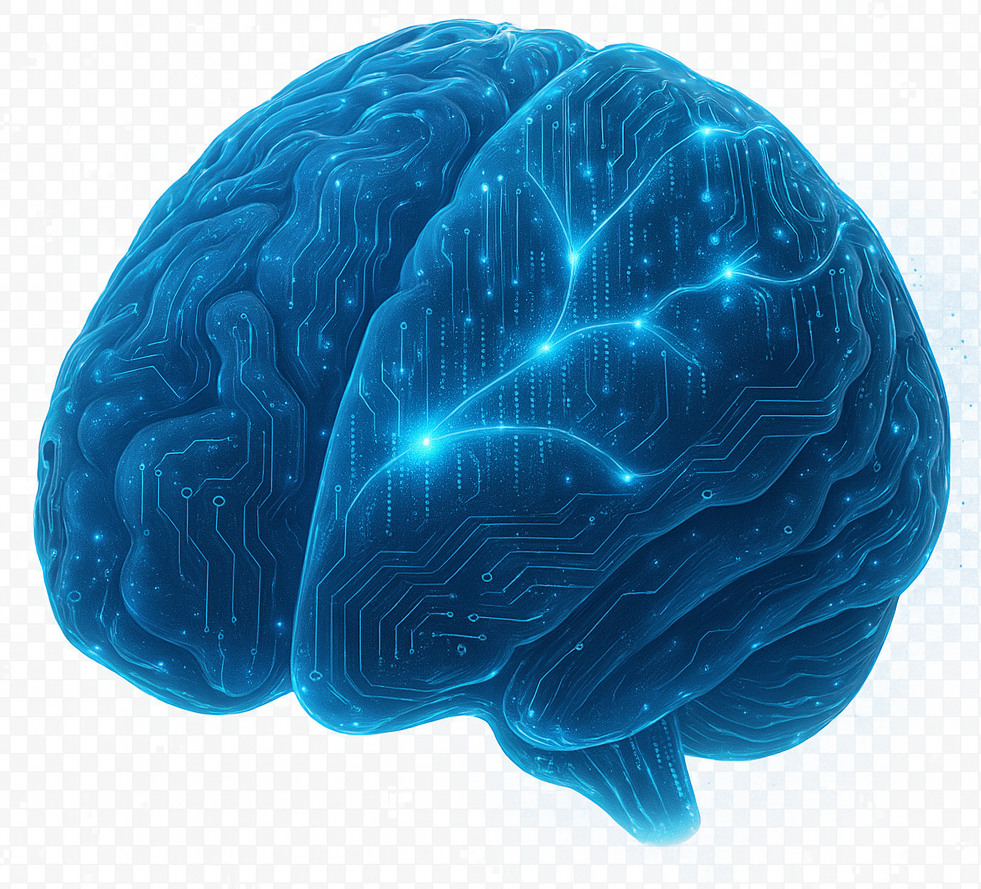
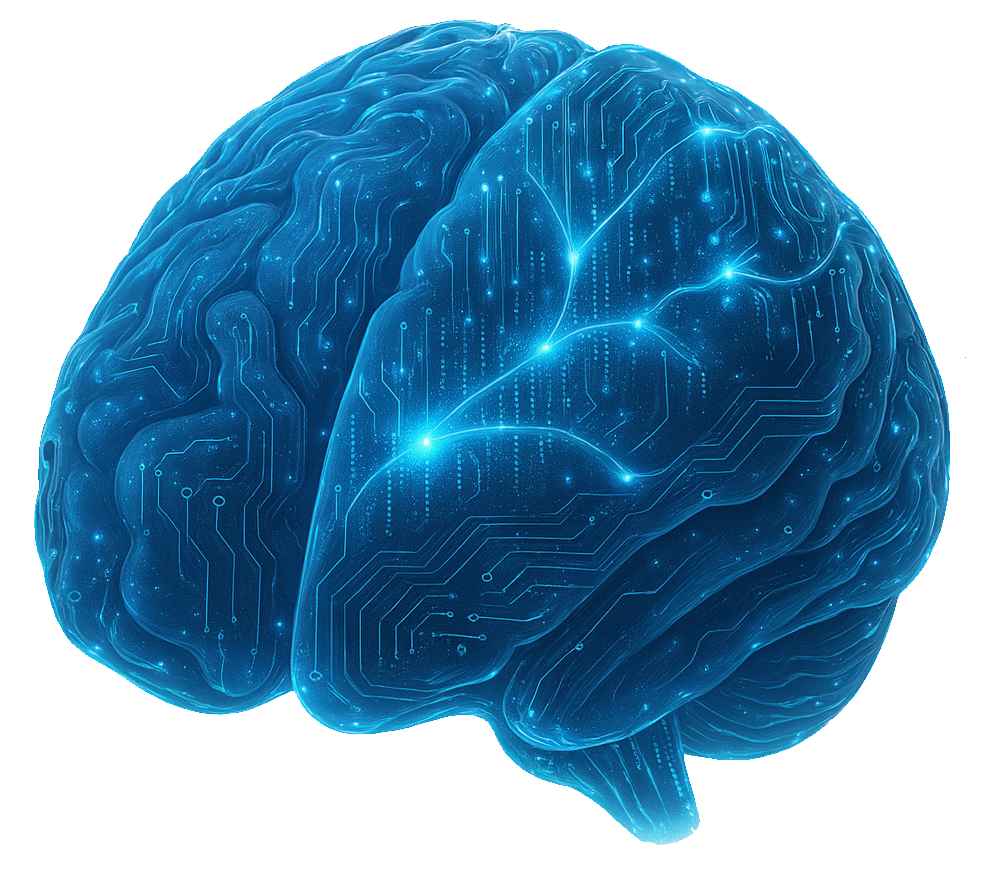
updated images for brain. pink - flip horizontal. blue - remove background

Changed region(s): [[0.8869, 0.243, 1.0, 0.6985], [0.6422, 0.9415, 0.7034, 0.9719], [0.8563, 0.2126, 0.8869, 0.243]]

diff --git a/pages/about-brain-concept.js b/pages/about-brain-concept.js
@@ -250,8 +250,8 @@ function AboutPage() {
                   <div className={`rotate-container ${selectedBrainSide === 'right' ? 'rotated' : ''}`}>
                     {/* Technical Brain (Front) */}
                     <div className="brain-side">
-                      <CloudflareImage
-                        src="brain-tech-blue"
+                      <img
+                        src="/media/brain-tech-blue.png"
                         alt="Technical Mind"
                         width={400}
                         height={400}
@@ -265,8 +265,8 @@ function AboutPage() {
 
                     {/* Creative Brain (Back - flipped) */}
                     <div className="brain-side brain-back">
-                      <CloudflareImage
-                        src="brain-creative-pink"
+                      <img
+                        src="/media/brain-creative-pink.png"
                         alt="Creative Soul"
                         width={400}
                         height={400}
@@ -670,6 +670,9 @@ function AboutPage() {
         }
 
         .rotate-container {
+          position: relative;
+          width: 100%;
+          height: 100%;
           transform-style: preserve-3d;
           transition: transform 1s cubic-bezier(0.4, 0, 0.2, 1);
         }

diff --git a/pages/test-images.js b/pages/test-images.js
@@ -1,0 +1,31 @@
+import React from 'react';
+
+export default function TestImages() {
+  return (
+    <div className="min-h-screen bg-slate-900 p-8">
+      <h1 className="text-white text-2xl mb-8">Image Path Test</h1>
+      
+      <div className="grid grid-cols-2 gap-8">
+        <div>
+          <h2 className="text-white mb-4">Regular img tag - Brain Tech Blue</h2>
+          <img 
+            src="/media/brain-tech-blue.png" 
+            alt="Brain Tech Blue"
+            className="w-64 h-64 bg-gray-800 border border-gray-600"
+          />
+          <p className="text-gray-400 mt-2">Path: /media/brain-tech-blue.png</p>
+        </div>
+        
+        <div>
+          <h2 className="text-white mb-4">Regular img tag - Brain Creative Pink</h2>
+          <img 
+            src="/media/brain-creative-pink.png" 
+            alt="Brain Creative Pink"
+            className="w-64 h-64 bg-gray-800 border border-gray-600"
+          />
+          <p className="text-gray-400 mt-2">Path: /media/brain-creative-pink.png</p>
+        </div>
+      </div>
+    </div>
+  );
+}
